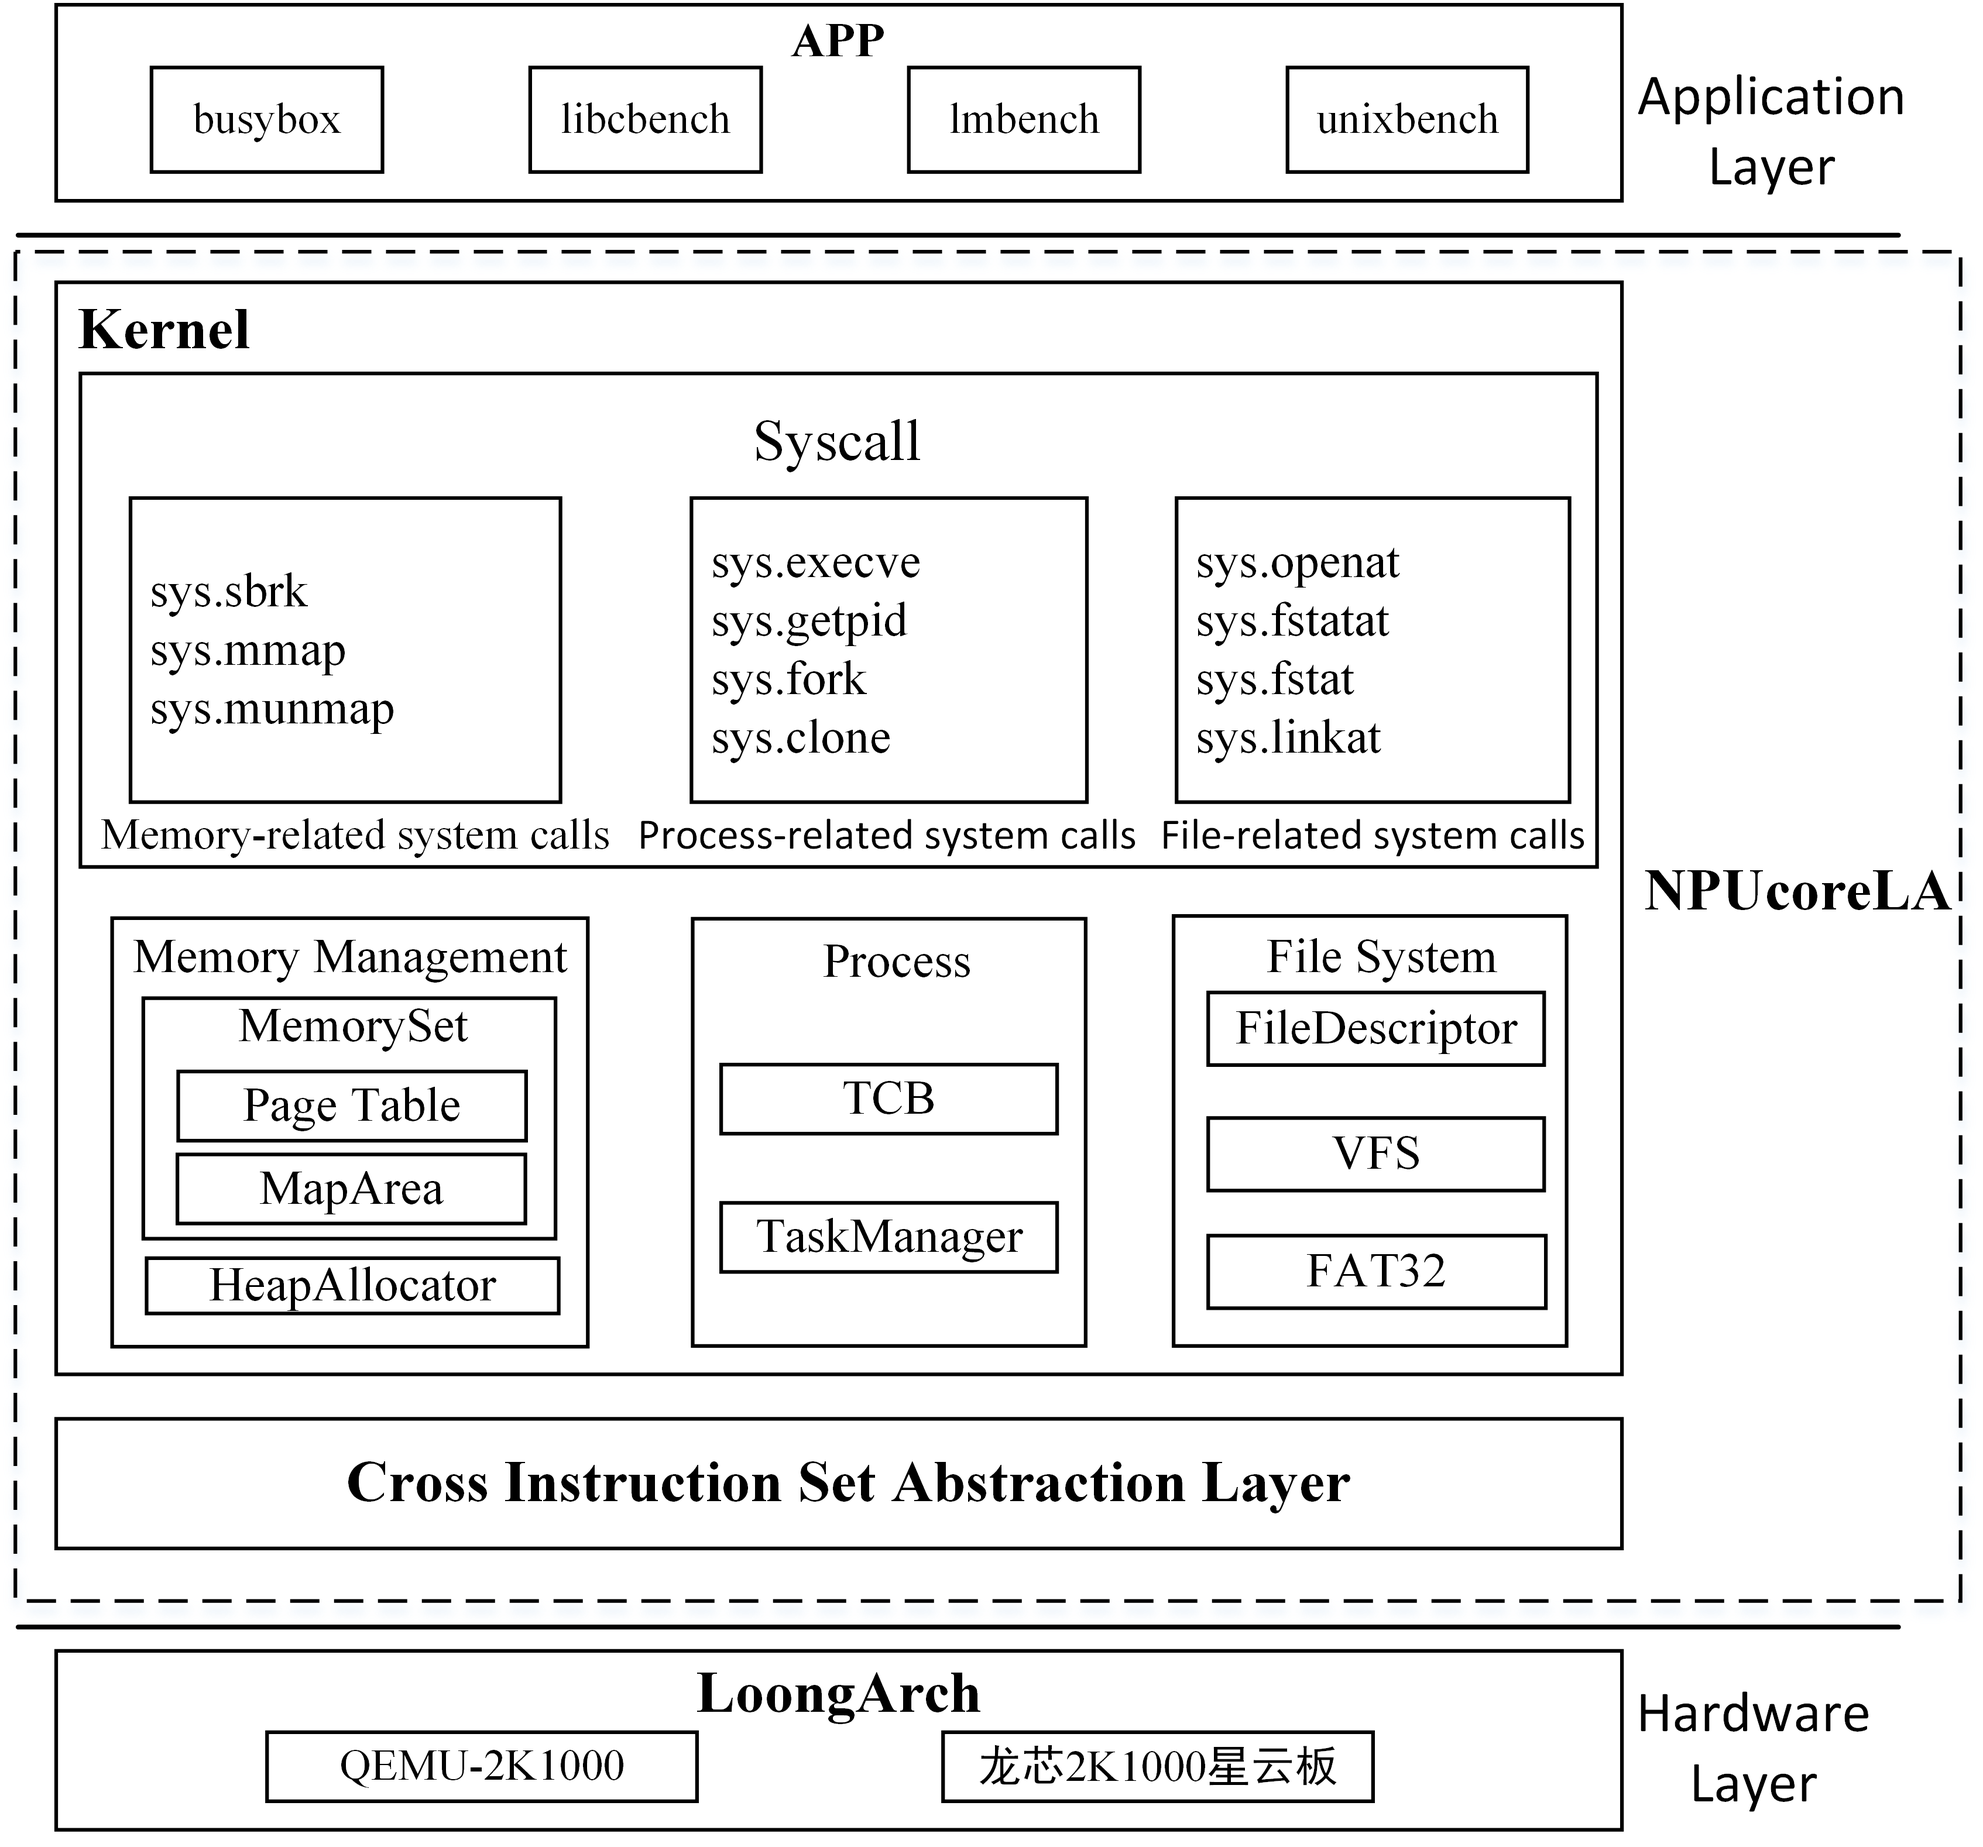
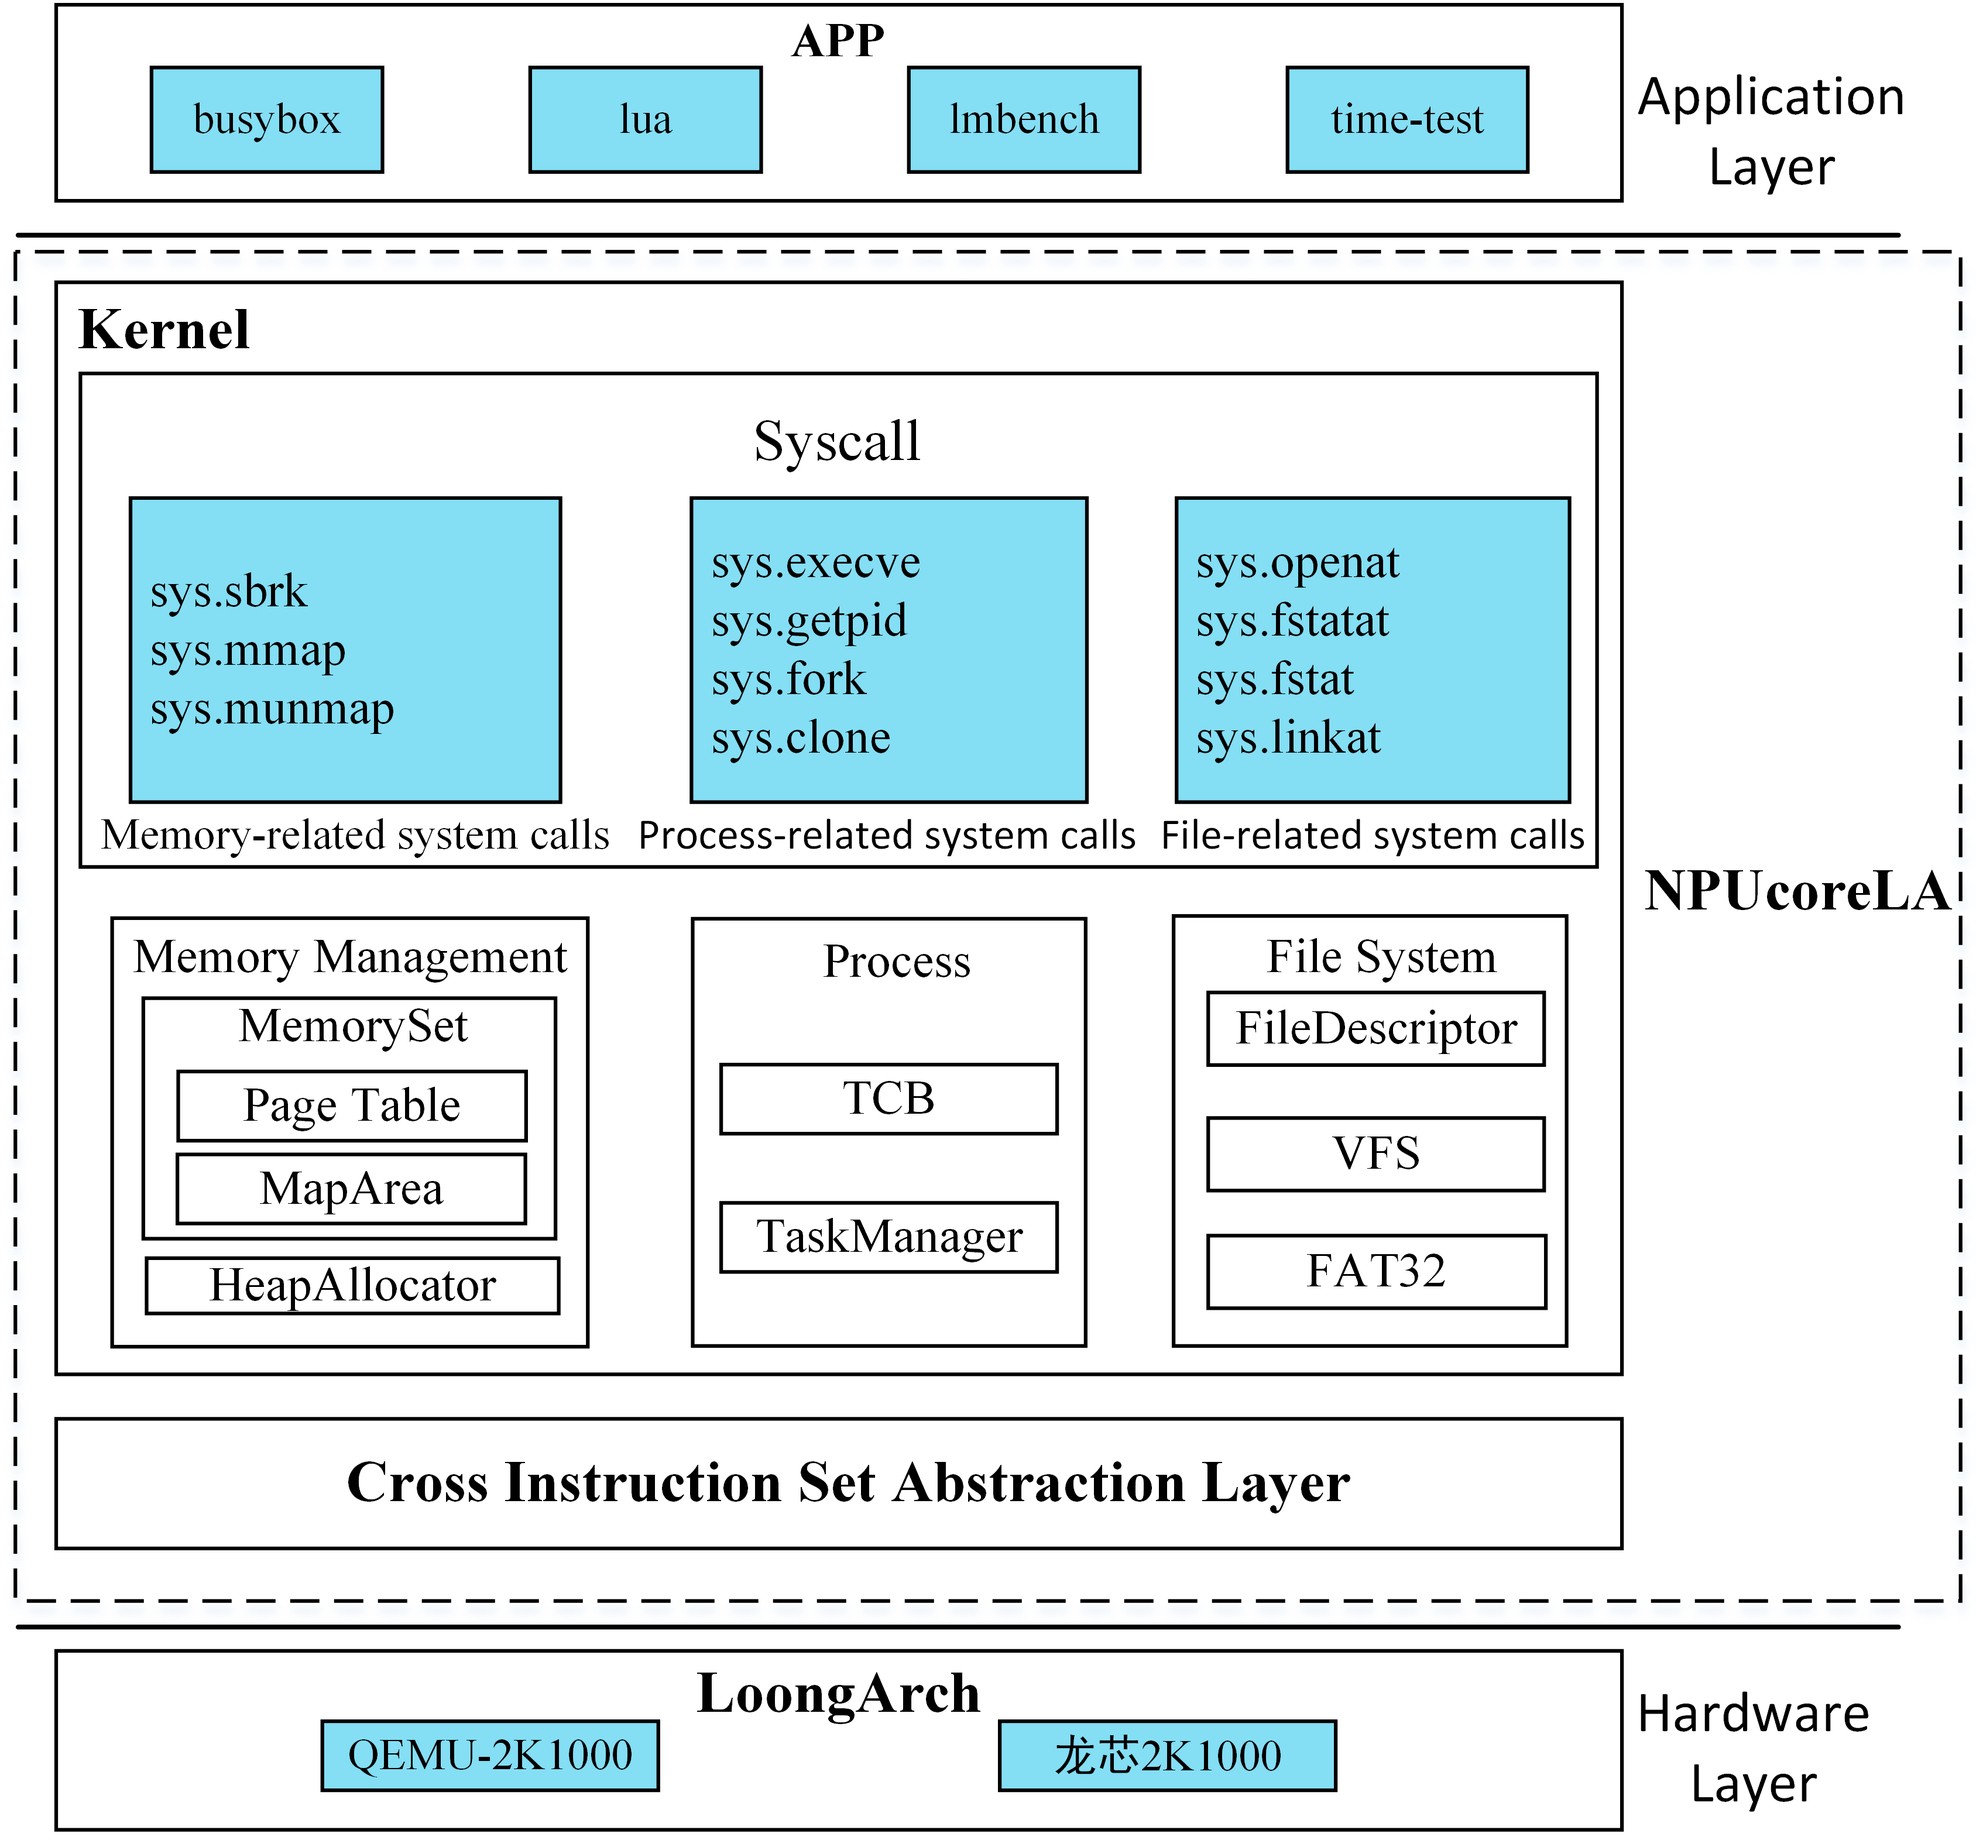
修改架构图

diff --git a/README.md b/README.md
@@ -12,7 +12,7 @@ NPUcoreLA来自于2023年操作系统大赛功能赛二等奖作品[NPUcore+LA](
 - **增加新的系统调用支持**：statx、getrandom、dup2等系统调用
 - **探索ext4实现（没有实现ext4）**：详细分析文档位于/docs中。
 
-## NPUcoreLA系统架构图
+## NPUcoreLA系统架构图（蓝色部分为增量）
 
 <img src="https://gitlab.eduxiji.net/T202410460992502/oskernel2024-npucorela/-/raw/main/docs/picture/NPUcore%E6%9E%B6%E6%9E%84%E5%9B%BE%EF%BC%88%E6%97%A0%E8%89%B2%E7%89%88%EF%BC%89.png?inline=false" width="60%">
 
